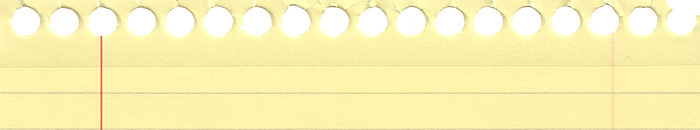
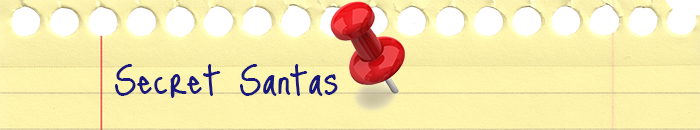
public results look half decent, but not responsive design yet.

Changed region(s): [[0.15, 0.0, 0.6, 0.8308]]

diff --git a/index.htm b/index.htm
@@ -6,6 +6,8 @@
     <link rel="stylesheet" href="css/normalize.css">
     <link rel="stylesheet" href="css/main.css">
     <link href="https://fonts.googleapis.com/css?family=Aleo" rel="stylesheet">
+    <!-- font for public results -->
+    <link href="https://fonts.googleapis.com/css?family=Just+Me+Again+Down+Here" rel="stylesheet">
     <script type="text/javascript" src="https://cdn.jsdelivr.net/npm/lozad/dist/lozad.min.js"></script>
 </head>
 
@@ -49,15 +51,12 @@
 
 
 
-        <!-- ko if: resultsOption()=="showResults" && finished() && !santaChange() -->
-<!--          <div style="display: none" data-bind="visible:true" class="publicresults">
-            <div data-bind="foreach: santas">
-               <i data-bind="text: name"></i> will be buying for <i data-bind="text: giftee"></i><br>
-            </div>
-         </div> -->
+        <!-- ko if: resultsOption()=="showResults" && finished() && !santaChange() && !hidePaper()-->
          
          <table style="display: none" data-bind="visible:true" class="publicresults">
-            <th class="publicresultsheader"></th>
+            <th align="right" class="publicresultsheader">
+                <span id="paperclose" data-bind="click: function() {hideMe()}">CLOSE</span>
+            </th>
             <tbody data-bind="foreach: santas">
                <tr>
                   <td class="linedpaper">
@@ -66,12 +65,13 @@
                   </td>
                </tr>
             </tbody>
+            <tr><td class="linedpaper"></td></tr>
          </table>
 
 
         <!-- /ko -->
 
-       <!-- ko if: resultsOption() == 'hideResults' && finished() && !santaChange() -->
+       <!-- ko if: resultsOption() == 'hideResults' && finished() && !santaChange()-->
         <div id="secretResults" style="display: none" data-bind="visible:true">
         <h2>Secret results area</h2>
         <h3>Please give the following links to each giftee. You can copy them to the clipboard just by clicking!</h3>
@@ -109,3 +109,4 @@
 </html>
 
 <!-- Public Domain Santa Photo by bruce mars from Pexels -->
+<!-- Main background Photo by rawpixel.com from Pexels -->

diff --git a/css/main.css b/css/main.css
@@ -1,24 +1,15 @@
 body {
 
  	font-family: 'Aleo', serif;
-/* 	color: white;
-  	text-shadow: 2px 2px BLACK;*/
+ 	background-size: cover;
+	background-image: url("../img/mainbg.jpg");
+	position: fixed;
+	left: 0;
+	top: 0;
+ 	width: 100vw;
+ 	height: 100vh;
 }
 
-html {
-    height: 100%;
-    -webkit-background-size: cover;
-    -moz-background-size: cover;
-    -o-background-size: cover;
-    background-size: cover;
-    background: #70bg32;
-    background-repeat:no-repeat;
-    background: -webkit-linear-gradient(to bottom right, #e83c5b, #63a55b);
-    background: -moz-linear-gradient(to bottom right, #e83c5b, #63a55b);
-    background: -ms-linear-gradient(to bottom right, #e83c5b, #63a55b);
-    background: -o-linear-gradient(to bottom right, #e83c5b, #63a55b);
-    background: linear-gradient(to bottom right, #e83c5b, #63a55b);
-}
 
 .shadow {
 	text-shadow: 2px 2px black;
@@ -88,13 +79,26 @@ html {
 }
 
 .publicresults {
-	position: absolute;
-	left: 123px;
+	position: fixed;
+	top: 10vh;
+	left: 10vw;
 	width: 700px;
 	z-index: 1;
+	overflow: auto;
 }
 
 table {
 	border-collapse: collapse;
 	border: none;	
+	max-height: 40vh;
+}
+
+#paperclose {
+	margin-right: 10px;
+}
+
+.oneLine, #paperclose {
+		font-family: 'Just Me Again Down Here', cursive;
+	color: #18187d;
+	font-size: xx-large;
 }

diff --git a/js/app.js b/js/app.js
@@ -34,6 +34,7 @@ ko.extenders.required = function(target, overrideMessage) {
     return target;
 };
 
+
 // prototype santa, or "gifter"
 function Santa(name) {
     var self = this;
@@ -43,6 +44,10 @@ function Santa(name) {
         required: ""
     });
 
+    // self.hideMe = function() {
+    //     console.log("hiding");
+    //     hidePaper(true);
+    // }
     // each "santa"'s individual gift recipient
     self.giftee = ko.observable();
 
@@ -88,6 +93,13 @@ var ViewModel = function() {
     self.santas = ko.observableArray([
         new Santa("")
     ]);
+
+    self.hidePaper = ko.observable(false);
+
+    self.hideMe = function() {
+        console.log("hiding");
+        self.hidePaper(true);
+    }
 
     // the main function for adding Santas to the array
     self.addSanta = function() {
@@ -215,6 +227,7 @@ var ViewModel = function() {
             // this variable shows whether changes have been made since last submission, and hides the results until
             // the point this function changes it back.
             self.santaChange(false);
+            self.hidePaper(false);
         } else {
             alert("Sorry, I found two or more matching names in there.  Maybe add the surname to avoid confusion?")
         };
